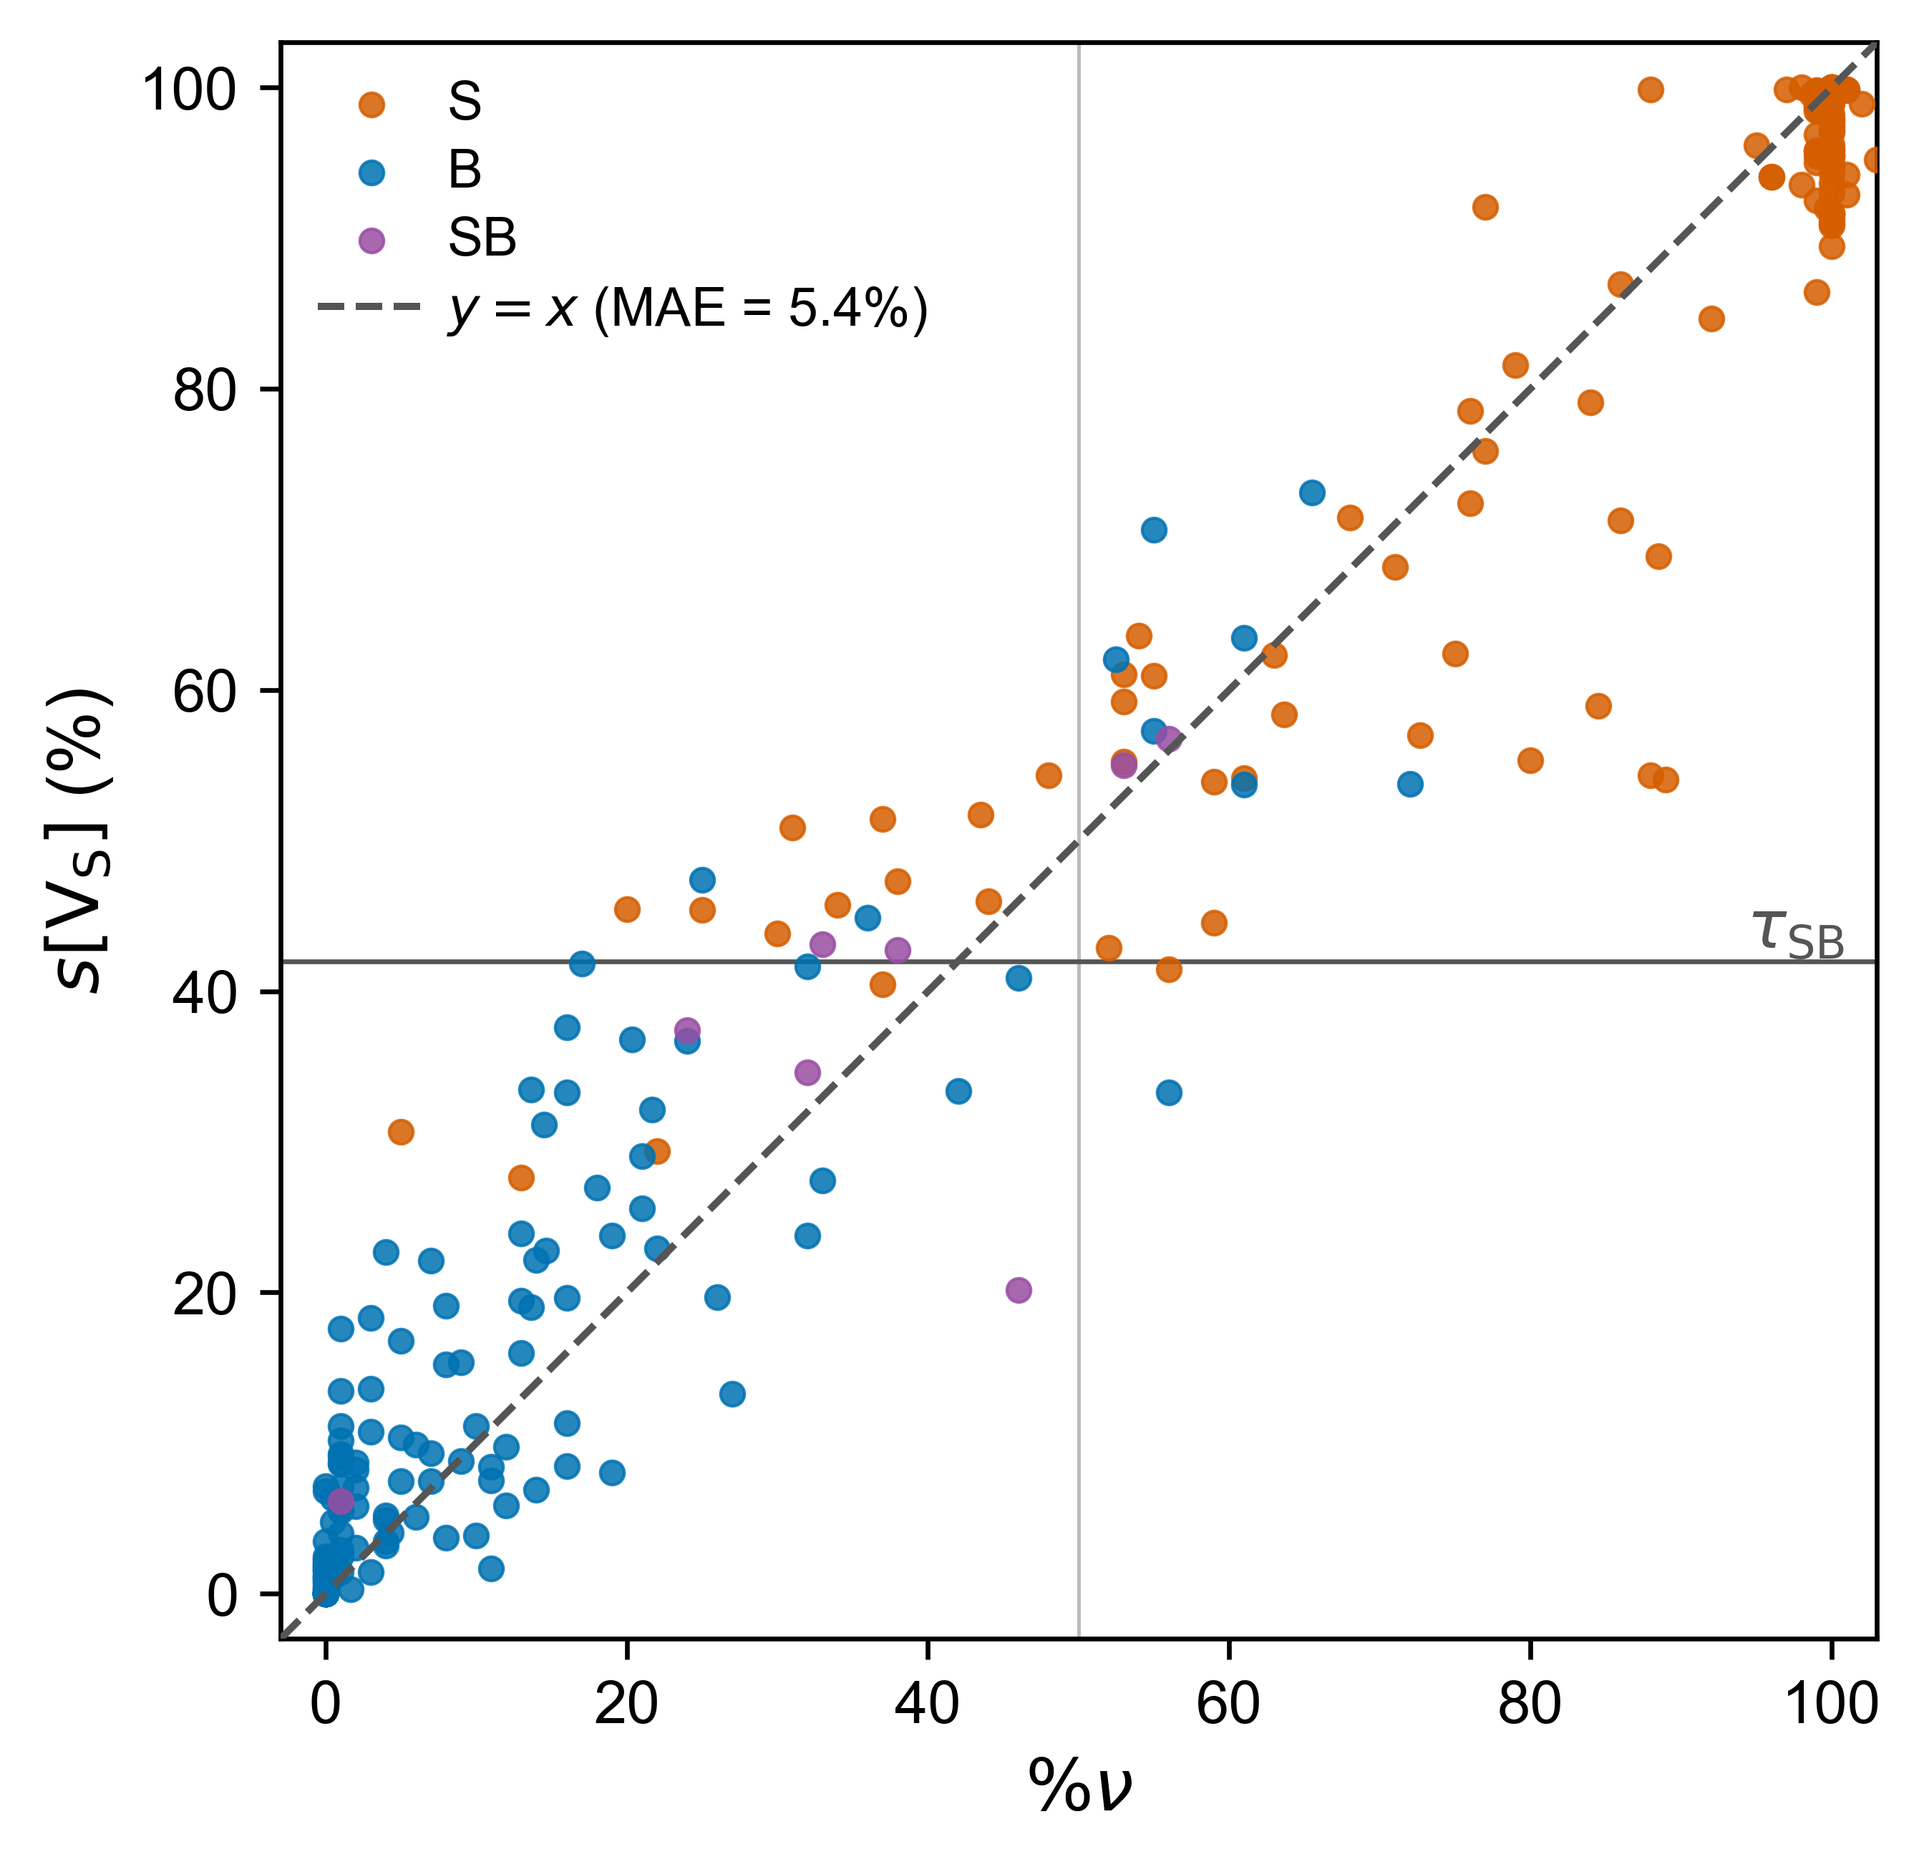
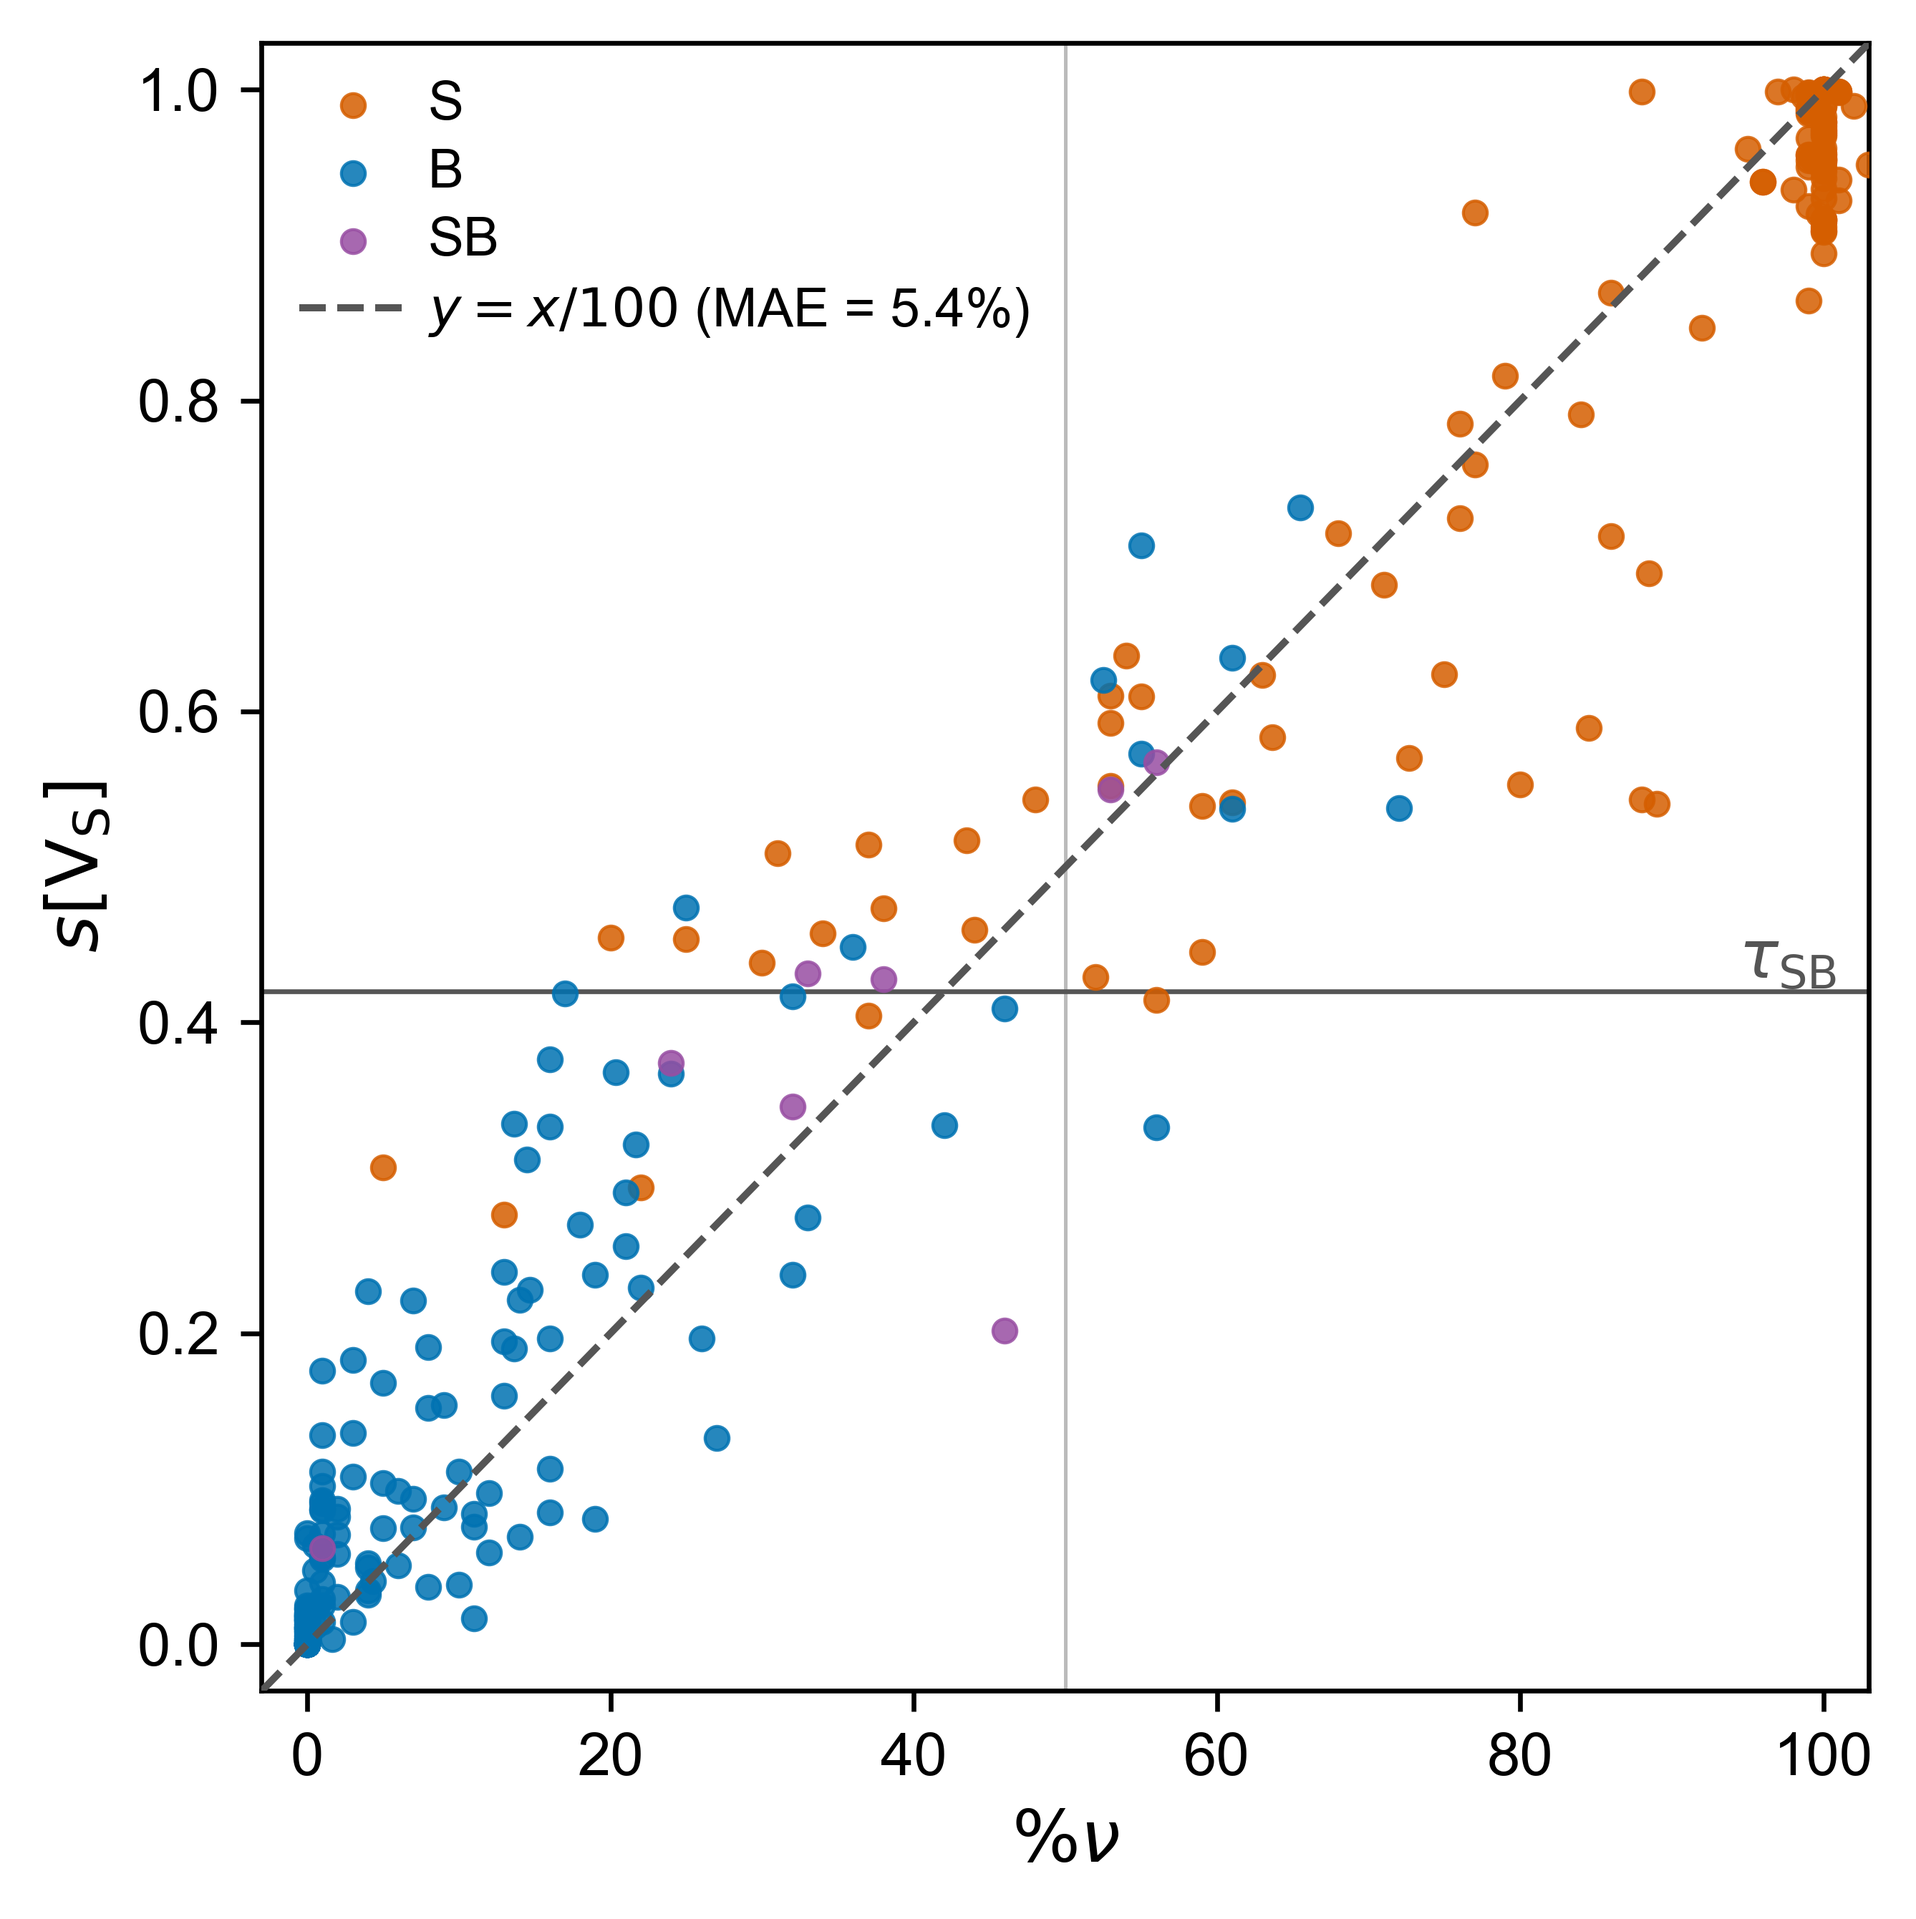
fig:ped_vs_vscore: rescale y-axis to native s[V_S] 0-1 scale, y=x/100 parity line

diff --git a/src/figures.py b/src/figures.py
@@ -3596,28 +3596,31 @@ def plot_ped_vs_vscore(
     out_dir="data/figures",
     label="fig_ped_vs_vscore",
     tau_SB=None,
-    ylabel=r"$s[\mathrm{V_S}]$ (%)",
+    ylabel=r"$s[\mathrm{V_S}]$",
     label_source_csv=None,
     color_by="reference",
     data_csv_path="data/results/ped_vs_vscore_data.csv",
     show_tau_SB_line=True,
 ):
-    """VEDA4's PED-based %nu (``PED_Stretch_pct``) vs. this framework's own
-    molecule-level stretch score s[V_S] (``V_Stretch``, plotted as a
-    percentage -- ``100 * V_Stretch`` -- so both axes share the same 0-100
-    scale), one point per physical frequency (degenerate modes averaged
-    together via _collapse_degenerate_freqs -- see its docstring) of
-    combined_ped_vs_scores.csv. A parity (y=x) line replaces a fitted
-    trend -- this is an agreement/calibration check against an independent
-    ground truth (see ``color_by`` below), not a correlation to be fit --
-    annotated with the mean absolute error (MAE, in percentage points),
-    ML-parity-plot style, instead of R^2. The axes share identical limits
-    and the axes box is forced square (``ax.set_aspect("equal")``) so the
-    y=x line is visually a true 45 degrees and reads as "perfect
-    agreement". One marker shape (circle) for all points -- color alone
-    distinguishes the category, so varying marker shape too would be a
-    redundant second encoding of the same distinction (matches
-    fig:bondscores' marker="o" override).
+    """VEDA4's PED-based %nu (``PED_Stretch_pct``, 0-100) vs. this
+    framework's own molecule-level stretch score s[V_S] (``V_Stretch``,
+    plotted on its own native 0-1 scale -- the manuscript convention as of
+    2026-09 is s[V_S] is always shown raw/0-1, never x100, so the two axes
+    now have DIFFERENT native ranges), one point per physical frequency
+    (degenerate modes averaged together via _collapse_degenerate_freqs --
+    see its docstring) of combined_ped_vs_scores.csv. A parity line
+    (``y = x/100``, mapping %nu onto the 0-1 s[V_S] scale) replaces a
+    fitted trend -- this is an agreement/calibration check against an
+    independent ground truth (see ``color_by`` below), not a correlation to
+    be fit -- annotated with the mean absolute error (MAE, in percentage
+    points, computed on the x100 scale internally -- see the ``mae``
+    calculation below -- and left as-is even though the y-axis itself is no
+    longer x100; the "%" in the annotation is enough context). The axes no
+    longer share identical limits/aspect (that only made sense back when
+    both were forced onto the same 0-100 scale). One marker shape (circle)
+    for all points -- color alone distinguishes the category, so varying
+    marker shape too would be a redundant second encoding of the same
+    distinction (matches fig:bondscores' marker="o" override).
 
     ``color_by`` selects what the point color/legend encodes:
       - "reference" (default): the literature/PED ground-truth S/B/SB label,
@@ -3663,11 +3666,11 @@ def plot_ped_vs_vscore(
     vote sees the overridden per-row labels, matching how the canonical path
     already collapses labels baked in at tau_SB=0.50.
 
-    ``ylabel`` overrides the y-axis label (default "s[V_S] (%)"; e.g.
-    archive_unweighted callers pass a label that says "Unweighted" to
+    ``ylabel`` overrides the y-axis label (default "s[V_S]", raw 0-1 scale;
+    e.g. archive_unweighted callers pass a label that says "Unweighted" to
     distinguish this from the canonical mu-weighted figure of the same
-    name -- keep any override on the same x100 percentage scale as the
-    plotted data).
+    name -- keep any override on the same raw 0-1 scale as the plotted
+    data).
 
     ``show_tau_SB_line`` (default True) draws the horizontal tau_SB
     reference line/label. archive_unweighted's figure sets this False --
@@ -3764,19 +3767,19 @@ def plot_ped_vs_vscore(
         if sub.empty:
             continue
         kw = _marker_kwargs(cat, marker="o", color_map=color_map)
-        ax.scatter(sub["PED_Stretch_pct"], sub["V_Stretch_pct"], s=16,
+        ax.scatter(sub["PED_Stretch_pct"], sub["V_Stretch"], s=16,
                    zorder=3, label=CATEGORY_LABEL[cat], **kw)
 
     # tau_SB reference line (this framework's own bend/stretch cutoff on the
-    # y-axis quantity s[V_S], rescaled to the same x100 percentage scale as
-    # the plotted data) -- a solid line (unlike every other tau_SB-annotated
-    # figure's dashed axhline) so it reads as distinct from the dashed y=x
-    # parity line sharing this axes. NOT added to the legend (in-axes text
-    # label instead, right of the plot at the line's own height).
+    # y-axis quantity s[V_S], on its native raw 0-1 scale -- NOT rescaled,
+    # unlike before this axis switched off x100) -- a solid line (unlike
+    # every other tau_SB-annotated figure's dashed axhline) so it reads as
+    # distinct from the dashed y=x/100 parity line sharing this axes. NOT
+    # added to the legend (in-axes text label instead, right of the plot at
+    # the line's own height).
     if show_tau_SB_line:
-        tau_SB_pct = th.tau_SB * 100
-        ax.axhline(tau_SB_pct, color=COLORS["threshold"], ls="-", lw=0.8, zorder=1)
-        ax.text(0.98, tau_SB_pct, r"$\tau_{\mathrm{SB}}$", ha="right", va="bottom",
+        ax.axhline(th.tau_SB, color=COLORS["threshold"], ls="-", lw=0.8, zorder=1)
+        ax.text(0.98, th.tau_SB, r"$\tau_{\mathrm{SB}}$", ha="right", va="bottom",
                 color=COLORS["threshold"], transform=ax.get_yaxis_transform())
 
     x = df["PED_Stretch_pct"].to_numpy(float)
@@ -3796,21 +3799,26 @@ def plot_ped_vs_vscore(
     os.makedirs(os.path.dirname(data_csv_path), exist_ok=True)
     point_data.to_csv(data_csv_path, index=False)
 
-    # y=x parity line (not a fit): both axes are the same 0-100 percentage
-    # quantity, so exact agreement with the independent PED reference is
-    # the diagonal, not a fitted trend. MAE (mean absolute error, in
-    # percentage points) reported ML-parity-plot style instead of R^2.
-    lims = (-3, 103)
-    ax.plot(lims, lims, ls="--", lw=1.2, color=COLORS["threshold"], zorder=4,
-            label=r"$y=x$" + f" (MAE = {mae:.1f}%)")
+    # y=x/100 parity line (not a fit): x is %nu (0-100) and y is the raw
+    # s[V_S] (0-1), so exact agreement with the independent PED reference is
+    # this shallow-slope line, not a 45-degree diagonal -- since the two
+    # axes no longer share a scale, forcing an equal/square aspect (as the
+    # old x100-on-both-axes version did) would no longer make the line read
+    # as "agreement" and is dropped. MAE (mean absolute error, in
+    # percentage points, computed above on the x100 scale and left
+    # unrescaled -- see docstring) reported ML-parity-plot style instead of R^2.
+    x_lims = (-3, 103)
+    y_lims = (-0.03, 1.03)
+    ax.plot(x_lims, [v / 100 for v in x_lims], ls="--", lw=1.2,
+            color=COLORS["threshold"], zorder=4,
+            label=r"$y=x/100$" + f" (MAE = {mae:.1f}%)")
 
     ax.set_xlabel(r"$\%\nu$")
     ax.set_ylabel(ylabel)
-    ax.set_xlim(*lims)
-    ax.set_ylim(*lims)
-    ax.set_aspect("equal", adjustable="box")
-    # Full 4-sided border on this square parity plot -- _style() turns off
-    # the top/right spines globally, override back on for this figure only.
+    ax.set_xlim(*x_lims)
+    ax.set_ylim(*y_lims)
+    # Full 4-sided border -- _style() turns off the top/right spines
+    # globally, override back on for this figure only.
     ax.spines["top"].set_visible(True)
     ax.spines["right"].set_visible(True)
     ax.legend(loc="upper left", frameon=False, handletextpad=0.4,
